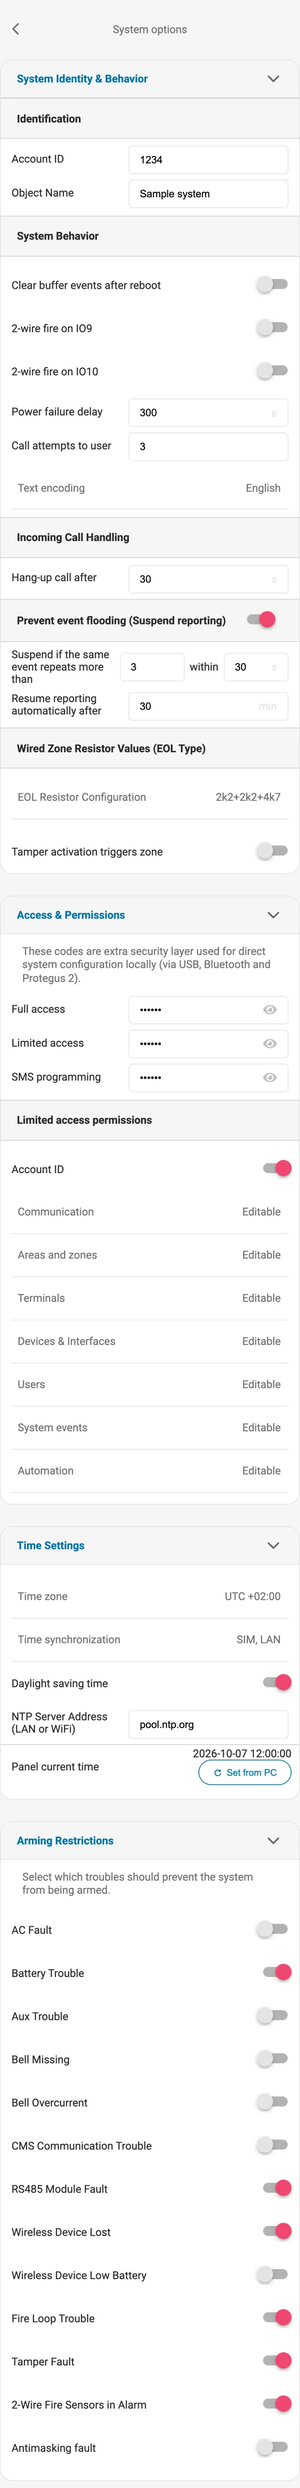
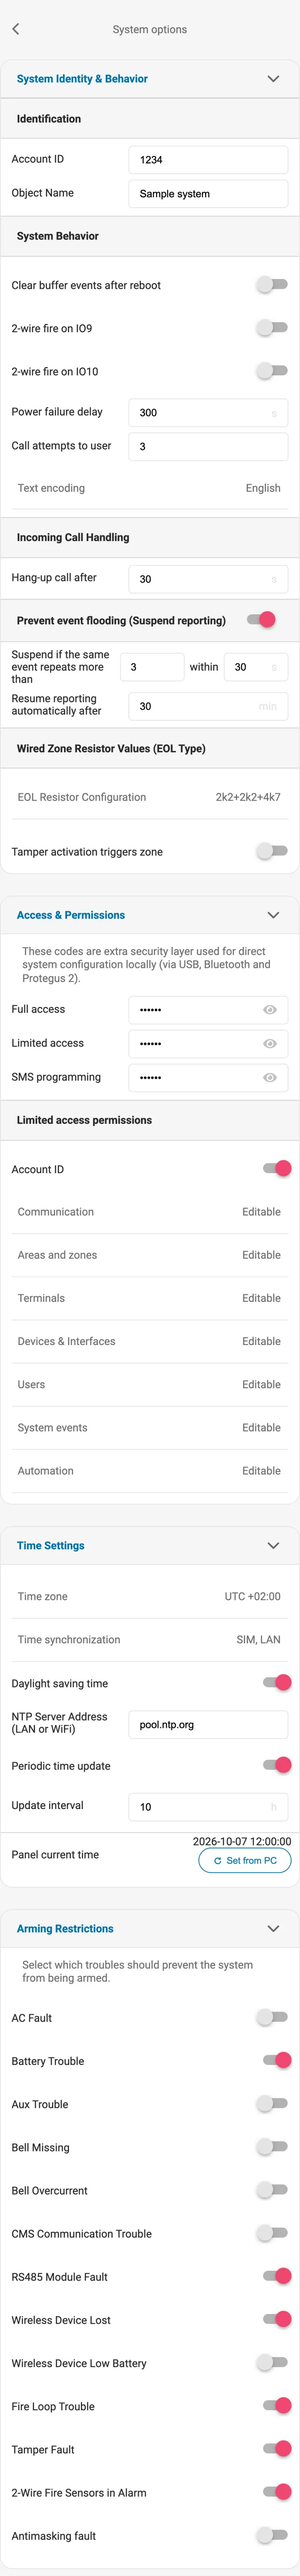
SP5 draft: System options image shows Periodic time update

diff --git a/docs/en/control-panels/sp5/index.md b/docs/en/control-panels/sp5/index.md
@@ -639,7 +639,7 @@ The status is read from the panel when you open the Dashboard or the Networks pa
 
 System options holds the panel's identity and general behaviour, the access codes, the clock and the troubles that block arming. On desktop the page heading reads **System Options**.
 
-![Protegus app, SP5 System Options page in a desktop browser, with four cards. System Identity & Behavior: Account ID 1234, Object Name Sample system, Clear buffer events after reboot and the two 2-wire fire switches off, Power failure delay 300, Call attempts to user 3, Text encoding English, Hang-up call after 30, Prevent event flooding on with 3 repeats within 30 s and resume after 30 min, EOL Resistor Configuration 2k2+2k2+4k7, Tamper activation triggers zone off. Access & Permissions: masked Full access, Limited access and SMS programming codes, Account ID permission on, and the other Limited access permissions, Automation included, set to Editable. Time Settings: Time zone UTC +02:00, Time synchronization SIM and LAN, Daylight saving time on, NTP server pool.ntp.org, Panel current time 2026-10-07 12:00:00 and a Set from PC button. Arming Restrictions: 13 trouble switches, some on.](./protegus-app/sp5-systemoptions-desktop-content.webp)
+![Protegus app, SP5 System Options page in a desktop browser, with four cards. System Identity & Behavior: Account ID 1234, Object Name Sample system, Clear buffer events after reboot and the two 2-wire fire switches off, Power failure delay 300, Call attempts to user 3, Text encoding English, Hang-up call after 30, Prevent event flooding on with 3 repeats within 30 s and resume after 30 min, EOL Resistor Configuration 2k2+2k2+4k7, Tamper activation triggers zone off. Access & Permissions: masked Full access, Limited access and SMS programming codes, Account ID permission on, and the other Limited access permissions, Automation included, set to Editable. Time Settings: Time zone UTC +02:00, Time synchronization SIM and LAN, Daylight saving time on, NTP server pool.ntp.org, Periodic time update on with Update interval 10 h, Panel current time 2026-10-07 12:00:00 and a Set from PC button. Arming Restrictions: 13 trouble switches, some on.](./protegus-app/sp5-systemoptions-desktop-content.webp)
 
 #### System Identity & Behavior
 
